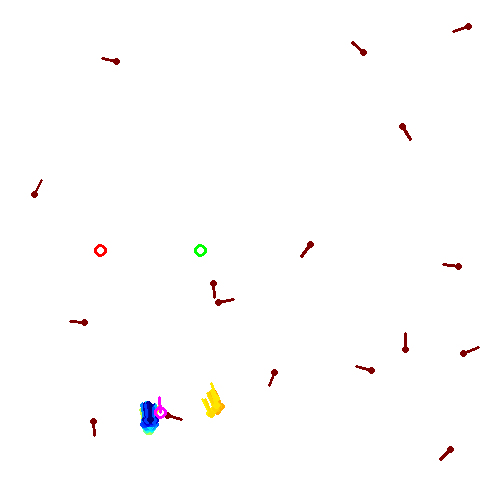
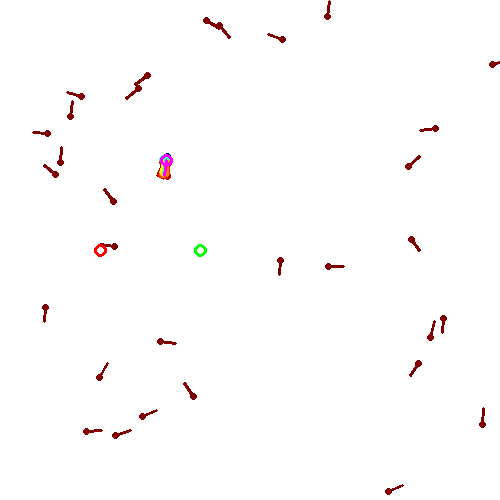
minf

diff --git a/Self-localization/selflocalize.py b/Self-localization/selflocalize.py
@@ -185,7 +185,7 @@ def Localize(myCam):
             # XXX: Make the robot drive
             # XXX: You do this
 
-            particle.add_uncertainty(particles, 0.8, 0.08)
+            particle.add_uncertainty(particles, 0.75, 0.1)
 
             for p in particles:
                 delta_x = np.cos(p.getTheta()) * velocity
@@ -237,7 +237,7 @@ def Localize(myCam):
                         ly = landmarks[object[0]][1]
                         unique_particle_distance = np.sqrt((lx - x_i) ** 2 + (ly - y_i) ** 2) #d_i
                         
-                        dist_error *= N(20, (np.abs(object[1] - (unique_particle_distance)))) #(d_m - d_i)^2
+                        dist_error *= N(10, (np.abs(object[1] - (unique_particle_distance)))) #(d_m - d_i)^2
                 
                     #stderror_distance = np.std(List_dist, ddof=1) #/ np.sqrt(np.size(List.dist))
                     
@@ -262,7 +262,7 @@ def Localize(myCam):
                         e_hat = np.array([-np.sin(theta_i), np.cos(theta_i)])
                         phi = np.sign(np.dot(e_l,e_hat))*np.arccos(np.dot(e_l, e_theta))
 
-                        angle_error *= N(0.35, np.abs(object[2] - (phi))) #(\phi_m - \phi_i)
+                        angle_error *= N(0.25, np.abs(object[2] - (phi))) #(\phi_m - \phi_i)
             
                     #angle_weight = (angle_error * 20,std_error_angles)#,std_error_angles
                 
@@ -297,7 +297,7 @@ def Localize(myCam):
                 
                 chosenParticles = sorted(chosenParticles, key=lambda particle: particle.getWeight())
                 # Remove the worst 5%
-                chosenParticles = chosenParticles[int(0.05 * len(chosenParticles)):]
+                chosenParticles = chosenParticles[int(0.1 * len(chosenParticles)):]
 
                 x_values = np.array([p.getX() for p in chosenParticles])
                 y_values = np.array([p.getY() for p in chosenParticles])
@@ -309,7 +309,7 @@ def Localize(myCam):
 
                 print(f"x_covar: {x_covar}, y_covar: {y_covar}, theta_covar: {theta_covar}")
 
-                if (x_covar < 5 and y_covar < 5 and theta_covar < 0.025 and startTime + 3 < timer()):
+                if (x_covar < 5 and y_covar < 5 and theta_covar < 0.015 and startTime + 3 < timer()):
                     # found the robot
                     est_pose = particle.estimate_pose(chosenParticles[:int(0.7 * len(chosenParticles))])
                     draw_world(est_pose, particles, world)

diff --git a/Self-localization/camera.py b/Self-localization/camera.py
@@ -140,8 +140,8 @@ class Camera(object):
             #       7.0564929862291285e+02, 2.5634470978315028e+02, 0., 0., 1. ], dtype = np.float64)
             #self.intrinsic_matrix = np.asarray([ 6.0727040957659040e+02, 0., 3.0757300398967601e+02, 0.,
             #       6.0768864690145904e+02, 2.8935674612358201e+02, 0., 0., 1. ], dtype = np.float64)
-            self.intrinsic_matrix = np.asarray([1687.0, 0., self.imageSize[0] / 2.0, 0.,
-                   1687.0, self.imageSize[1] / 2.0, 0., 0., 1.], dtype = np.float64)
+            self.intrinsic_matrix = np.asarray([1136, 0., self.imageSize[0] / 2.0, 0.,
+                   1136, self.imageSize[1] / 2.0, 0., 0., 1.], dtype = np.float64)
             self.intrinsic_matrix.shape = (3, 3)
             #self.distortion_coeffs = np.asarray([ 1.1911006165076067e-01, -1.0003366233413549e+00,
             #       1.9287903277399834e-02, -2.3728201444308114e-03, -2.8137265581326476e-01 ], dtype = np.float64)
